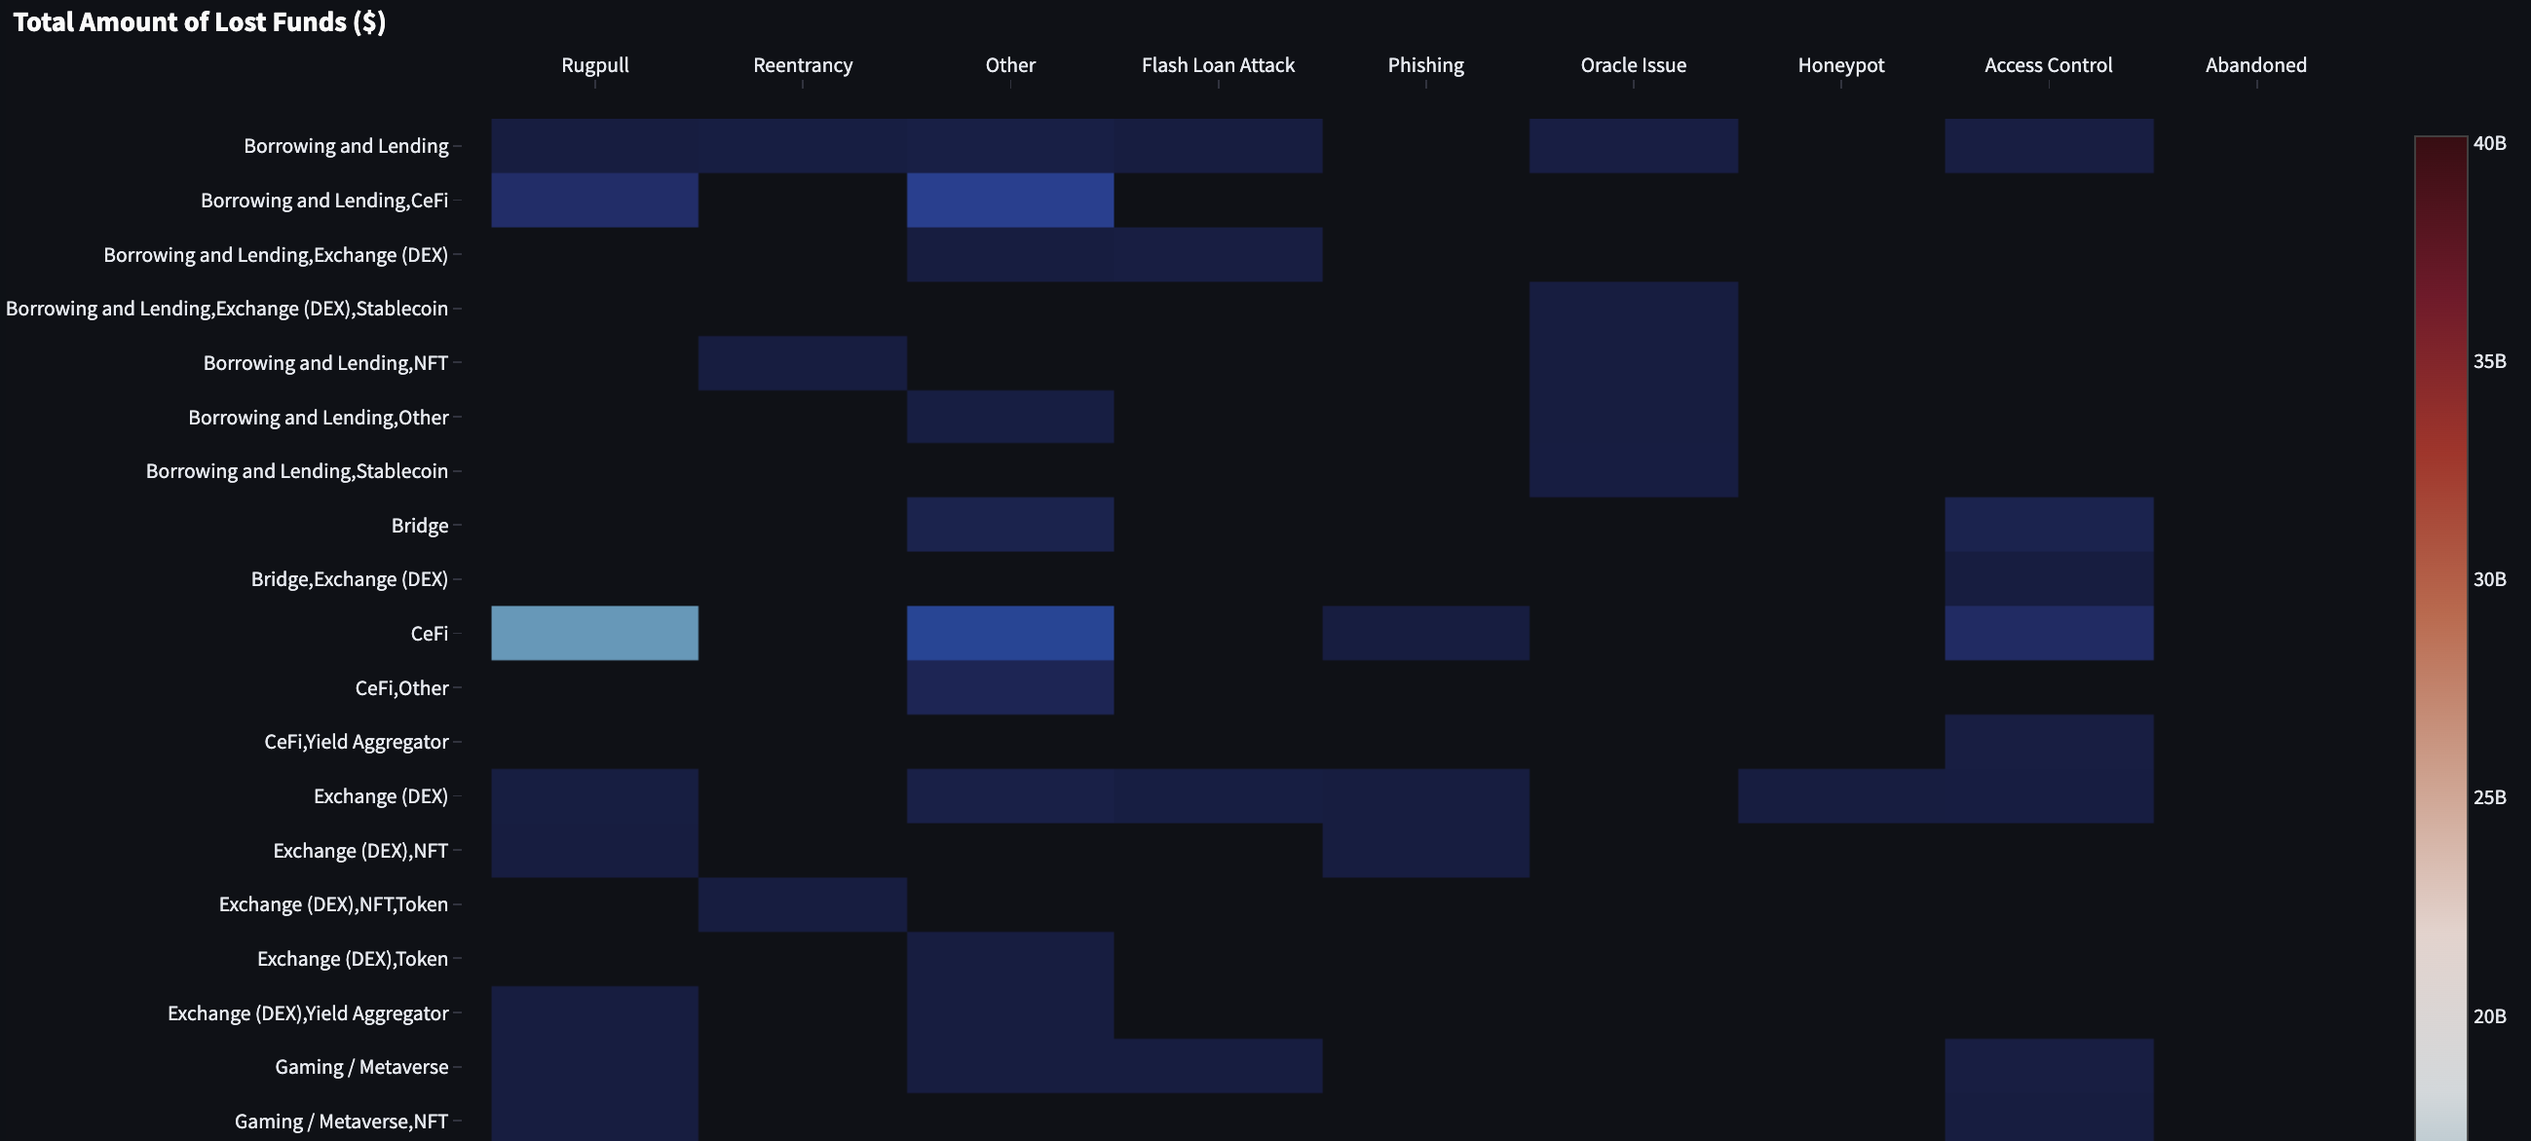
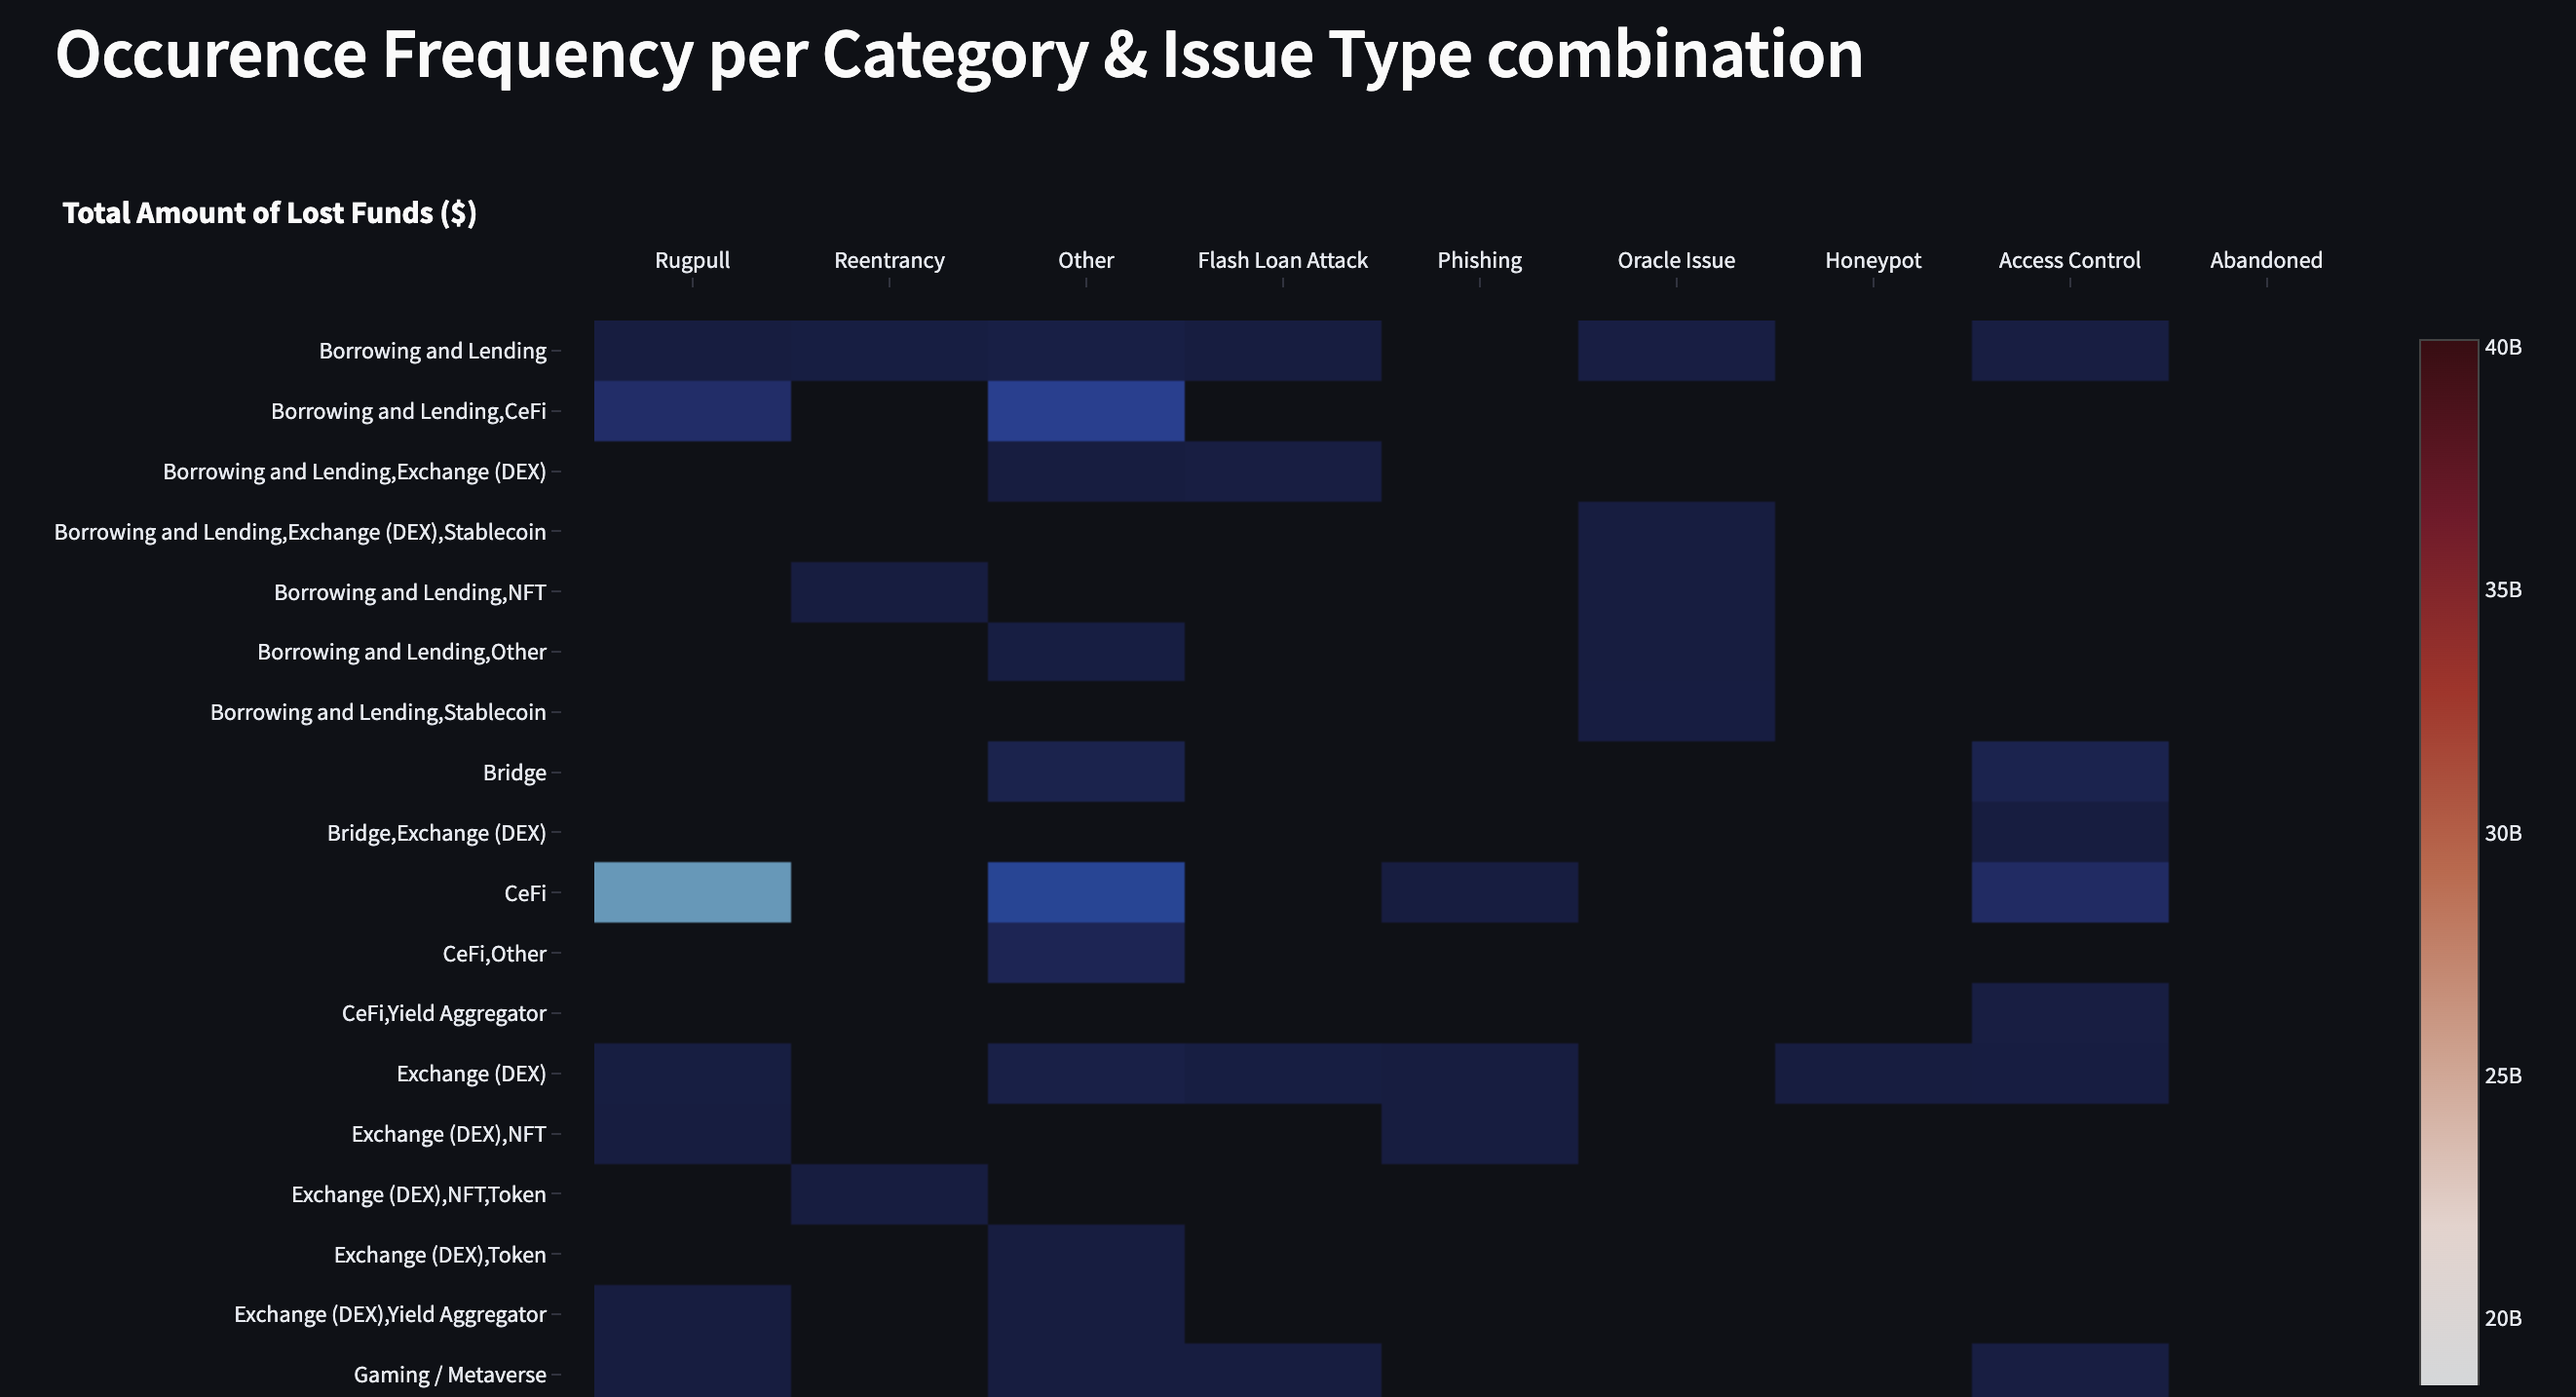
updated readme

diff --git a/README.md b/README.md
@@ -12,17 +12,25 @@ https://docs.defiyield.app/audits/rekt-database
 
 ## Visualizations on Dashboard
 
-Three interactive plots show how the issue type and category evolve over time. Each interactive plot shows the count value as the user hovers over the data. For example, 
+The interactive plots show how the issue type and category evolve over time. Each interactive plot shows the count value as the user hovers over the data. 
 
-- How does each category (Bridge, CeFi, NFT, Token etc.) evolve over time? 
+- How does lost funds evolve over time for each category? 
 
-![figure1](images/figure1.png)
+![figure1](images/total_category.png)
 
-- How does each issue type (Abandoned, Rugpull, Phishing etc.) evolve over time? 
+- How does lost funds evolve over time for each issue type?
 
-![figure2](images/figure2.png)
+![figure1](images/total_issue.png)
 
-- Which issue types tend to be more frequent for each category? 
+- How does occurence frequency of each category (Bridge, CeFi, NFT, Token etc.) evolve over time? 
+
+![figure1](images/occ_category.png)
+
+- How does occurence frequency of each issue type (Abandoned, Rugpull, Phishing etc.) evolve over time? 
+
+![figure2](images/occ_issue.png)
+
+- Which category / issue type combinations have been more frequent than others?
 
 ![heatmap](images/heatmap.png)
 
